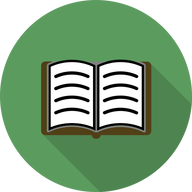
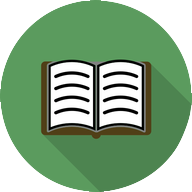
design overhaul

diff --git a/styles.css b/styles.css
@@ -611,7 +611,6 @@ body.side-menu-locked { overflow: hidden; }
   max-width: 1180px;
   margin: 0 auto;
   padding: 26px 28px 34px;
-  border-top: 1px solid var(--line);
   color: var(--muted);
   text-align: center;
   font-size: .9rem;
@@ -752,41 +751,264 @@ body.side-menu-locked { overflow: hidden; }
 body.landing-mode .book-layout { display: none; }
 body.landing-mode .header-actions { display: none; }
 
+body.landing-mode {
+  display: flex;
+  flex-direction: column;
+  min-height: 100vh;
+  min-height: 100svh;
+  color: #fffdf3;
+  background: #173e35;
+}
+
+body.landing-mode .site-header {
+  flex: 0 0 auto;
+  border: 0;
+  background: #173e35;
+}
+
+body.landing-mode .header-inner {
+  max-width: none;
+  min-height: 72px;
+  padding: 0 5vw;
+}
+
+body.landing-mode .brand { color: #fffdf3; }
+
+body.landing-mode .app-shell {
+  display: flex;
+  flex: 1 1 auto;
+  width: 100%;
+  max-width: none;
+  min-height: 0;
+  padding: 0;
+}
+
+body.landing-mode .intro {
+  position: relative;
+  isolation: isolate;
+  display: flex;
+  flex: 1 1 auto;
+  flex-direction: column;
+  align-items: flex-start;
+  justify-content: center;
+  min-height: calc(100svh - 72px);
+  margin: 0;
+  padding: 72px 9vw;
+  overflow: hidden;
+  background-color: #173e35;
+  background-image: linear-gradient(90deg, rgba(23, 62, 53, .98) 0%, rgba(23, 62, 53, .9) 38%, rgba(23, 62, 53, .28) 100%), url('/icons/icon-512.png');
+  background-repeat: no-repeat;
+  background-position: center, right 7vw center;
+  background-size: cover, auto 108%;
+}
+
+body.landing-mode .eyebrow {
+  margin-bottom: 18px;
+  color: #d9ed7a;
+  font-size: .8rem;
+}
+
+.home-title {
+  max-width: 10ch;
+  margin-bottom: 18px;
+  color: #fffdf3;
+  font-size: 6rem;
+  font-weight: normal;
+  line-height: .96;
+}
+
+body.landing-mode .subtitle {
+  max-width: 36rem;
+  color: #f4f0d9;
+  font-size: 1.2rem;
+  line-height: 1.45;
+}
+
 .landing-copy {
-  max-width: 42rem;
-  margin: 14px 0 0;
-  color: var(--muted);
+  max-width: 34rem;
+  margin: 18px 0 0;
+  color: rgba(255, 253, 243, .82);
+  font-size: 1.05rem;
   line-height: 1.6;
 }
 
 .open-book-button {
-  margin-top: 22px;
-  padding: 12px 22px;
-  border: 1px solid var(--accent);
-  border-radius: 999px;
-  color: white;
-  background: var(--accent);
+  margin-top: 30px;
+  padding: 15px 23px;
+  border: 1px solid #d9ed7a;
+  border-radius: 3px;
+  color: #173e35;
+  background: #d9ed7a;
   font-family: 'Trebuchet MS', sans-serif;
-  font-size: .8rem;
+  font-size: .82rem;
   font-weight: bold;
   letter-spacing: .04em;
   text-transform: uppercase;
   cursor: pointer;
-  transition: background .15s ease;
+  transition: background .15s ease, transform .15s ease;
 }
 
 .open-book-button:hover,
 .open-book-button:focus-visible {
-  background: var(--accent-hover);
+  background: #edf6b5;
   outline: none;
+  transform: translateY(-2px);
 }
 
 /* Control elements shown on home-mode */
 body.home-mode .lyrics-panel { display: none; }
 body.home-mode .site-footer { display: none; }
 
-body.home-mode .book-layout { grid-template-columns: minmax(220px, 520px); }
+body.home-mode {
+  display: flex;
+  flex-direction: column;
+  height: 100vh;
+  height: 100dvh;
+  overflow: hidden;
+  background: #f2f4e9;
+}
 
+body.home-mode .site-header {
+  flex: 0 0 auto;
+  border: 0;
+  border-bottom: 4px solid #d9ed7a;
+  background: #173e35;
+}
+
+body.home-mode .header-inner {
+  max-width: none;
+  min-height: 68px;
+  padding: 0 4vw;
+}
+
+body.home-mode .brand { color: #fffdf3; }
+
+body.home-mode .app-shell {
+  display: flex;
+  flex: 1 1 auto;
+  width: 100%;
+  max-width: none;
+  min-height: 0;
+  padding: 0;
+  overflow: hidden;
+}
+
+body.home-mode .book-layout {
+  display: block;
+  width: 100%;
+  height: 100%;
+  overflow-y: auto;
+  overscroll-behavior: contain;
+  padding: 42px 5vw 64px;
+}
+
+body.home-mode .contents-panel {
+  display: grid;
+  grid-template-columns: minmax(260px, 1.4fr) minmax(180px, .7fr) minmax(180px, .7fr);
+  align-items: end;
+  column-gap: 18px;
+  width: 100%;
+  padding: 0;
+  border: 0;
+  background: transparent;
+}
+
+body.home-mode .panel-heading {
+  grid-column: 1 / -1;
+  align-items: end;
+  margin-bottom: 24px;
+  padding-bottom: 20px;
+  border-bottom: 1px solid #cbd2c4;
+}
+
+body.home-mode .panel-heading h2 {
+  color: #173e35;
+  font-size: 3rem;
+}
+
+body.home-mode .song-count {
+  padding: 7px 11px;
+  border-radius: 2px;
+  color: #173e35;
+  background: #d9ed7a;
+  font-size: .78rem;
+  font-weight: bold;
+}
+
+body.home-mode .contents-search { grid-column: 1; }
+
+body.home-mode .contents-search .search-label,
+body.home-mode .contents-controls .search-label {
+  margin-bottom: 8px;
+  color: #51645a;
+}
+
+body.home-mode .search-input,
+body.home-mode .select-input {
+  min-height: 50px;
+  border: 1px solid #cbd2c4;
+  border-radius: 3px;
+  background: #fffefa;
+}
+
+body.home-mode .contents-controls {
+  grid-column: 2 / -1;
+  grid-template-columns: repeat(2, minmax(0, 1fr));
+  gap: 18px;
+  margin-top: 0;
+}
+
+body.home-mode nav[aria-label="Song titles"] { grid-column: 1 / -1; }
+
+body.home-mode .song-list {
+  display: grid;
+  grid-template-columns: repeat(3, minmax(0, 1fr));
+  max-height: none;
+  margin: 34px 0 0;
+  overflow: visible;
+  border-top: 1px solid #cbd2c4;
+}
+
+body.home-mode .song-list li {
+  min-width: 0;
+  border-top: 0;
+  border-bottom: 1px solid #cbd2c4;
+}
+
+body.home-mode .song-item { position: relative; height: 100%; }
+
+body.home-mode .song-link {
+  min-height: 68px;
+  padding: 15px 54px 15px 14px;
+  color: #243a31;
+  line-height: 1.35;
+  transition: color .15s ease, background .15s ease;
+}
+
+body.home-mode .song-link:hover,
+body.home-mode .song-link:focus-visible,
+body.home-mode .song-link[aria-current="true"] {
+  color: #173e35;
+  background: #e5eccf;
+}
+
+body.home-mode .bookmark-button {
+  position: absolute;
+  top: 50%;
+  right: 8px;
+  margin: 0;
+  transform: translateY(-50%);
+}
+
+body.home-mode .bookmark-button:hover,
+body.home-mode .bookmark-button:focus-visible { background: #dbe7b5; }
+
+body.home-mode .empty-message {
+  grid-column: 1 / -1;
+  margin-top: 34px;
+  padding: 24px;
+  border-top: 1px solid #cbd2c4;
+}
 
 body.reading-mode { overflow-y: auto; }
 
@@ -832,6 +1054,13 @@ body.reading-mode .lyrics-text.is-overflowing { max-height: calc((100vh - 170px)
 
 body.reading-mode .lyrics-text.is-overflowing { max-height: none; overflow: visible; padding-right: 0; }
 
+@media (max-width: 900px) {
+  body.home-mode .contents-panel { grid-template-columns: repeat(2, minmax(0, 1fr)); }
+  body.home-mode .contents-search,
+  body.home-mode .contents-controls { grid-column: 1 / -1; }
+  body.home-mode .song-list { grid-template-columns: repeat(2, minmax(0, 1fr)); }
+}
+
 @media (max-width: 720px) {
   .header-inner, .app-shell { padding-left: 18px; padding-right: 18px; }
   .app-shell { padding-top: 36px; }
@@ -861,6 +1090,24 @@ body.reading-mode .lyrics-text.is-overflowing { max-height: none; overflow: visi
   .converter-dialog { padding: 20px; }
   .dialog-actions { flex-direction: column-reverse; }
   .action-button { width: 100%; }
+
+  body.landing-mode .header-inner,
+  body.home-mode .header-inner { padding-left: 18px; padding-right: 18px; }
+  body.landing-mode .intro {
+    min-height: calc(100svh - 68px);
+    padding: 52px 24px;
+    background-image: linear-gradient(90deg, rgba(23, 62, 53, .98), rgba(23, 62, 53, .62)), url('/icons/icon-512.png');
+    background-position: center, right -180px bottom -24px;
+    background-size: cover, auto 72%;
+  }
+  .home-title { max-width: 9ch; font-size: 3.4rem; }
+  body.home-mode .book-layout { padding: 30px 18px 48px; }
+  body.home-mode .panel-heading h2 { font-size: 2.3rem; }
+  body.home-mode .contents-controls { gap: 10px; }
+}
+
+@media (max-width: 420px) {
+  body.home-mode .song-list { grid-template-columns: minmax(0, 1fr); }
 }
 
 .lyrics-text.showing-chords.is-overflowing {

diff --git a/index.html b/index.html
@@ -45,13 +45,13 @@
   <main class="app-shell">
     <section class="intro" aria-labelledby="page-title">
       <p class="eyebrow">Eh what? Like Kanikapila?</p>
-      <!-- <h1 id="page-title">Optional Title</h1> -->
+      <h1 id="page-title" class="home-title">Puke Mele</h1>
       <!-- <p class="subtitle">A songbook for learning, performing, enjoying, and perpetuating mele Hawai`i. </p> -->
       <p class="subtitle" id="app-tagline"></p>
       <p class="landing-copy">
-        Great for the gigging musician, groups, or for use in kanikapila sessions. All your lyrics/chords in one place!
+        Great for the gigging musician, groups, or for use in kanikapila sessions. Find all your lyrics/chords in one place!
       </p>
-      <button id="open-book" class="open-book-button" type="button">Open the Puke Mele</button>
+      <button id="open-book" class="open-book-button" type="button">Open the Song Book</button>
     </section>
 
     <div class="book-layout"> 
@@ -60,8 +60,10 @@
           <h2 id="contents-title">Nā Mele</h2>
           <span class="song-count" aria-live="polite"></span>
         </div>
-        <label class="search-label" for="song-search">Search songs</label>
-        <input id="song-search" class="search-input" type="search" placeholder="Search by song title" autocomplete="off">
+        <div class="contents-search">
+          <label class="search-label" for="song-search">Search songs</label>
+          <input id="song-search" class="search-input" type="search" placeholder="Search by song title" autocomplete="off">
+        </div>
         <div class="contents-controls">
           <div>
             <label class="search-label" for="genre-filter">Genre</label>
@@ -140,7 +142,7 @@
     <p>Keep sharing the aloha!</p>
     <p>Other resources:</p>
     <ul>
-      <li><a target="_blank" href="https://www.pbshawaii.org/programs/na-mele/">Nā Mele</a></li>
+      <li><a target="_blank" href="https://www.pbshawaii.org/programs/na-mele/">Nā Mele/PBS Hawai'i</a></li>
       <li><a target="_blank" href="https://www.huapala.org/">Huapala Collection</a></li>
       <li><a target="_blank" href="https://guides.library.manoa.hawaii.edu/c.php?g=570632&p=4036530">UH Mānoa Library</a></li>
       <li><a target="_blank" href="https://library.wcc.hawaii.edu/HawaiianMusic/web">WCC Library</a></li>

diff --git a/app.js b/app.js
@@ -44,6 +44,8 @@ const songToolsPanel = document.querySelector('#song-tools-panel');
 document.title = window.APP_NAME || 'Puke Mele';
 const appNameEl = document.querySelector('#app-name');
 if (appNameEl) appNameEl.textContent = window.APP_NAME || 'Puke Mele';
+const pageTitleEl = document.querySelector('#page-title');
+if (pageTitleEl) pageTitleEl.textContent = window.APP_NAME || 'Puke Mele';
 const appTaglineEl = document.querySelector('#app-tagline');
 if (appTaglineEl) appTaglineEl.textContent = window.APP_TAGLINE || '';
 if (window.THEME_ACCENT) {

diff --git a/sw.js b/sw.js
@@ -1,4 +1,4 @@
-const CACHE_NAME = 'puke-mele-v55';
+const CACHE_NAME = 'puke-mele-v56';
 
 const CORE_ASSETS = [
   '/',
